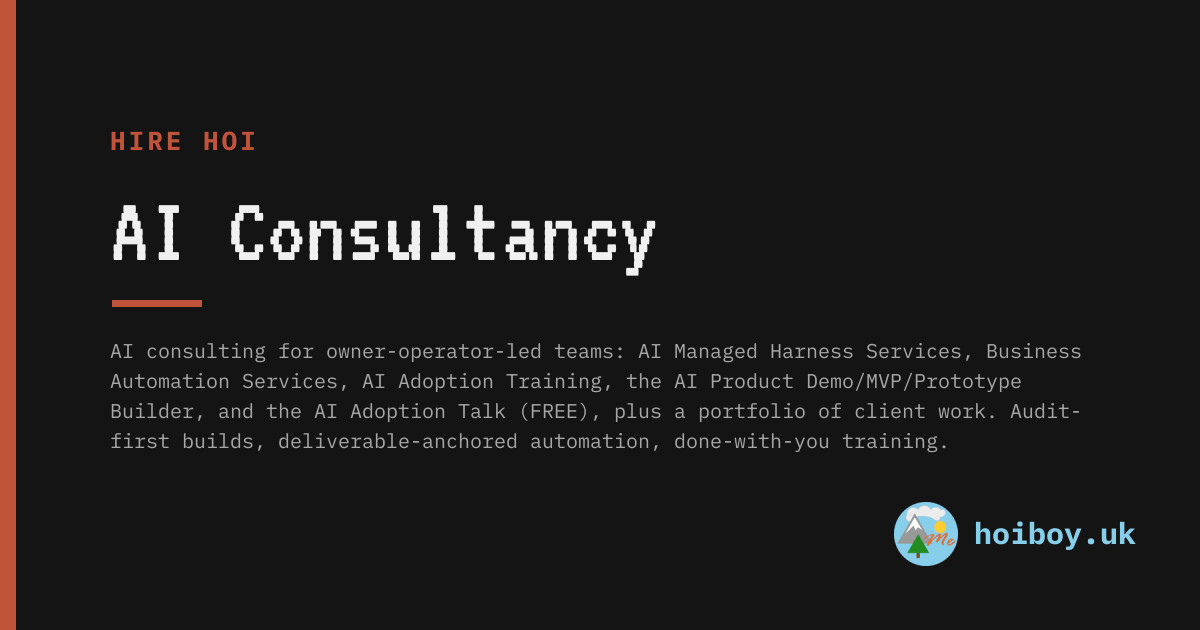
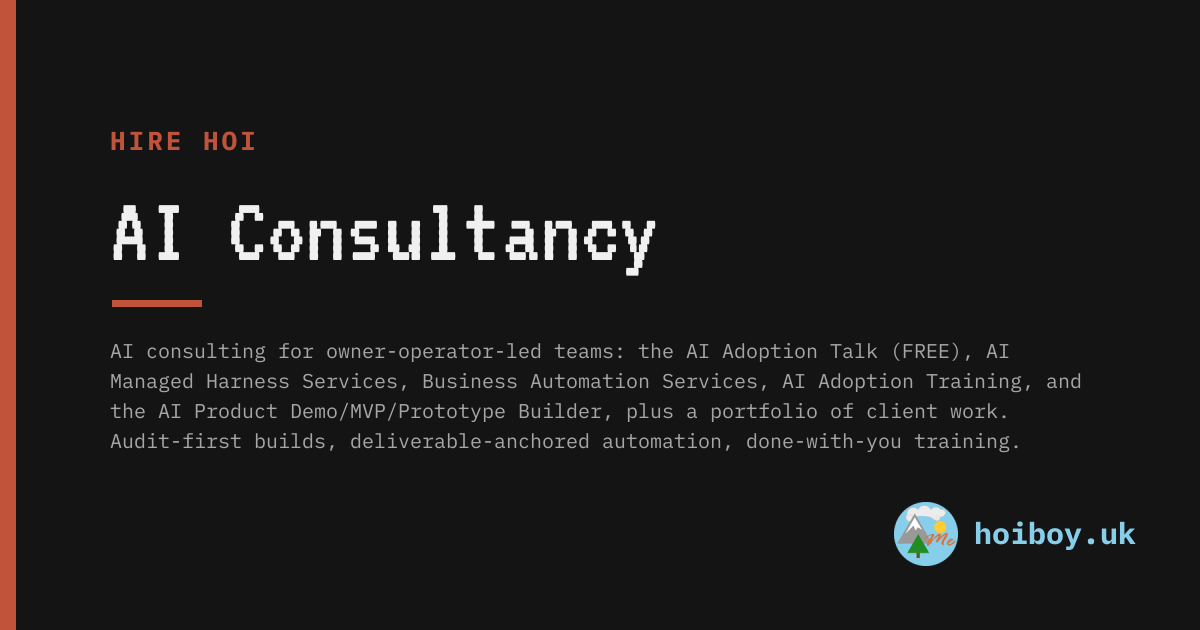
feat: lead the AI Consultancy landing with the free talk (#54)
Operator instruction: the AI Adoption Talk (FREE) is the low-friction
entry to a new relationship, so it goes first rather than last.

Three files in one commit because they are one invariant. The landing
description feeds two dependents: `scripts/test_gen_card.py` holds a
byte-identical frozen copy of it (AC 2.9), and the landing's share-card
tagline is generated from it via `landing-cards.tsv`, which reads the
frontmatter rather than storing its own text. Splitting these would
leave a red test and a stale card at the intermediate commit.

The description is a pure reorder: same 310 characters, same word
multiset, asserted programmatically. The frozen copy is asserted
byte-identical to the live description after the change.

`share-card.png` is the only card that moved. No stored tagline in
cards.tsv enumerates the offer set, so nothing else regenerated.

hoiboy-uk#54, operator instruction.

Changed region(s): [[0.0925, 0.5429, 0.8942, 0.6635], [0.0925, 0.6937, 0.8633, 0.7238]]

diff --git a/scripts/test_gen_card.py b/scripts/test_gen_card.py
@@ -18,11 +18,11 @@ _spec.loader.exec_module(gc)
 
 # The real longest landing description (content/hire-hoi/ai-consultancy/_index.md).
 AI_CONSULTANCY_DESC = (
-    "AI consulting for owner-operator-led teams: AI Managed Harness Services, "
-    "Business Automation Services, AI Adoption Training, the AI Product "
-    "Demo/MVP/Prototype Builder, and the AI Adoption Talk (FREE), plus a "
-    "portfolio of client work. Audit-first builds, deliverable-anchored "
-    "automation, done-with-you training."
+    "AI consulting for owner-operator-led teams: the AI Adoption Talk (FREE), "
+    "AI Managed Harness Services, Business Automation Services, AI Adoption "
+    "Training, and the AI Product Demo/MVP/Prototype Builder, plus a portfolio "
+    "of client work. Audit-first builds, deliverable-anchored automation, "
+    "done-with-you training."
 )
 
 

diff --git a/content/hire-hoi/ai-consultancy/_index.md b/content/hire-hoi/ai-consultancy/_index.md
@@ -1,6 +1,6 @@
 ---
 title: "AI Consultancy"
-description: "AI consulting for owner-operator-led teams: AI Managed Harness Services, Business Automation Services, AI Adoption Training, the AI Product Demo/MVP/Prototype Builder, and the AI Adoption Talk (FREE), plus a portfolio of client work. Audit-first builds, deliverable-anchored automation, done-with-you training."
+description: "AI consulting for owner-operator-led teams: the AI Adoption Talk (FREE), AI Managed Harness Services, Business Automation Services, AI Adoption Training, and the AI Product Demo/MVP/Prototype Builder, plus a portfolio of client work. Audit-first builds, deliverable-anchored automation, done-with-you training."
 ---
 
 <!-- iamhoi -->
@@ -10,6 +10,12 @@ description: "AI consulting for owner-operator-led teams: AI Managed Harness Ser
 I help owner-operator CEOs at small businesses (5 to 50 employees) get their AI tooling working as a system, not as a scattered collection of half-finished experiments. There are five ways to work with me, one of which is free, plus a portfolio of what that looks like in practice. New here, or not sure which one fits? Start at [Work with Hoi]({{< ref "/hire-hoi/ai-consultancy/work-with-hoi" >}}), the front door.
 
 UK-based; international clients welcome (travel and accommodation at cost when scope needs me on-site, no markup).
+
+## AI Adoption Talk (FREE)
+
+Want a low-risk way to see how I work? I come to your London office and give a 45-minute talk plus 15 minutes of Q&A on why AI hallucination keeps happening and how to reduce it. Invite anyone who is available and free to join. It runs as a conversation, so I hear how your people use AI today. Absolutely free, no strings attached, and I am not there to sell.
+
+[Read the full offer]({{< ref "/hire-hoi/ai-consultancy/ai-adoption-talk" >}})
 
 ## AI Managed Harness Services
 
@@ -34,12 +40,6 @@ Want your team to own the capability rather than outsource it? Done-with-you tra
 Got an idea you want built and tested? Contract me to build your demo, MVP, or prototype instead of hiring a full-time AI Product Engineer, so you can test an idea without a permanent salary. Day-rate pricing at £1,000 + VAT, billed by the half day, with a half-day brief to agree scope first, and a clean handover so you own what I build.
 
 [Read the full offer]({{< ref "/hire-hoi/ai-consultancy/ai-product-builder" >}})
-
-## AI Adoption Talk (FREE)
-
-Want a low-risk way to see how I work? I come to your London office and give a 45-minute talk plus 15 minutes of Q&A on why AI hallucination keeps happening and how to reduce it. Invite anyone who is available and free to join. It runs as a conversation, so I hear how your people use AI today. Absolutely free, no strings attached, and I am not there to sell.
-
-[Read the full offer]({{< ref "/hire-hoi/ai-consultancy/ai-adoption-talk" >}})
 
 ## Pricing & Billing
 
